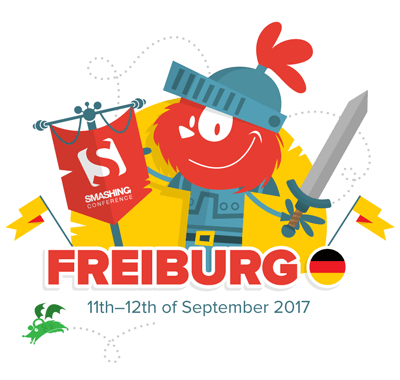
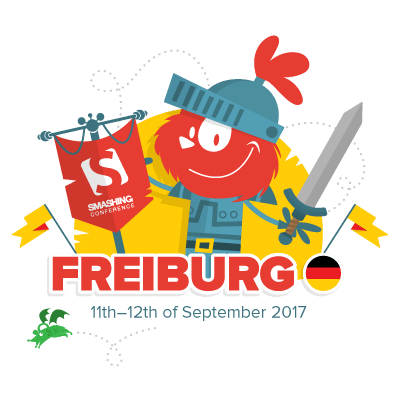
new footer

diff --git a/assets/styles/fr17.css b/assets/styles/fr17.css
@@ -141,7 +141,7 @@ h4 {
   padding-bottom: 1.25em;
   border-top: 0.625em solid #e9f4e9;
   color: rgba(0, 0, 0, 0.35);
-  background: url(../images/kaufhaus-mit-katzi-footer.png) no-repeat right bottom, #b9eab9;
+  background: url(../images/smashingconf-freiburg-footer.png) no-repeat right bottom, #b9eab9;
 }
 .f:after {
   content: "";
@@ -641,7 +641,7 @@ h4 {
     border-bottom: 0.08em solid #eee;
   }
   .f {
-    padding-bottom: 50%;
+    padding-bottom: 33%;
   }
 }
 @media screen and (max-width: 45.3125em) {
@@ -729,7 +729,7 @@ h4 {
     vertical-align: bottom;
   }
   .f {
-    padding-bottom: 125%;
+    padding-bottom: 75%;
   }
 }
 @media print {
